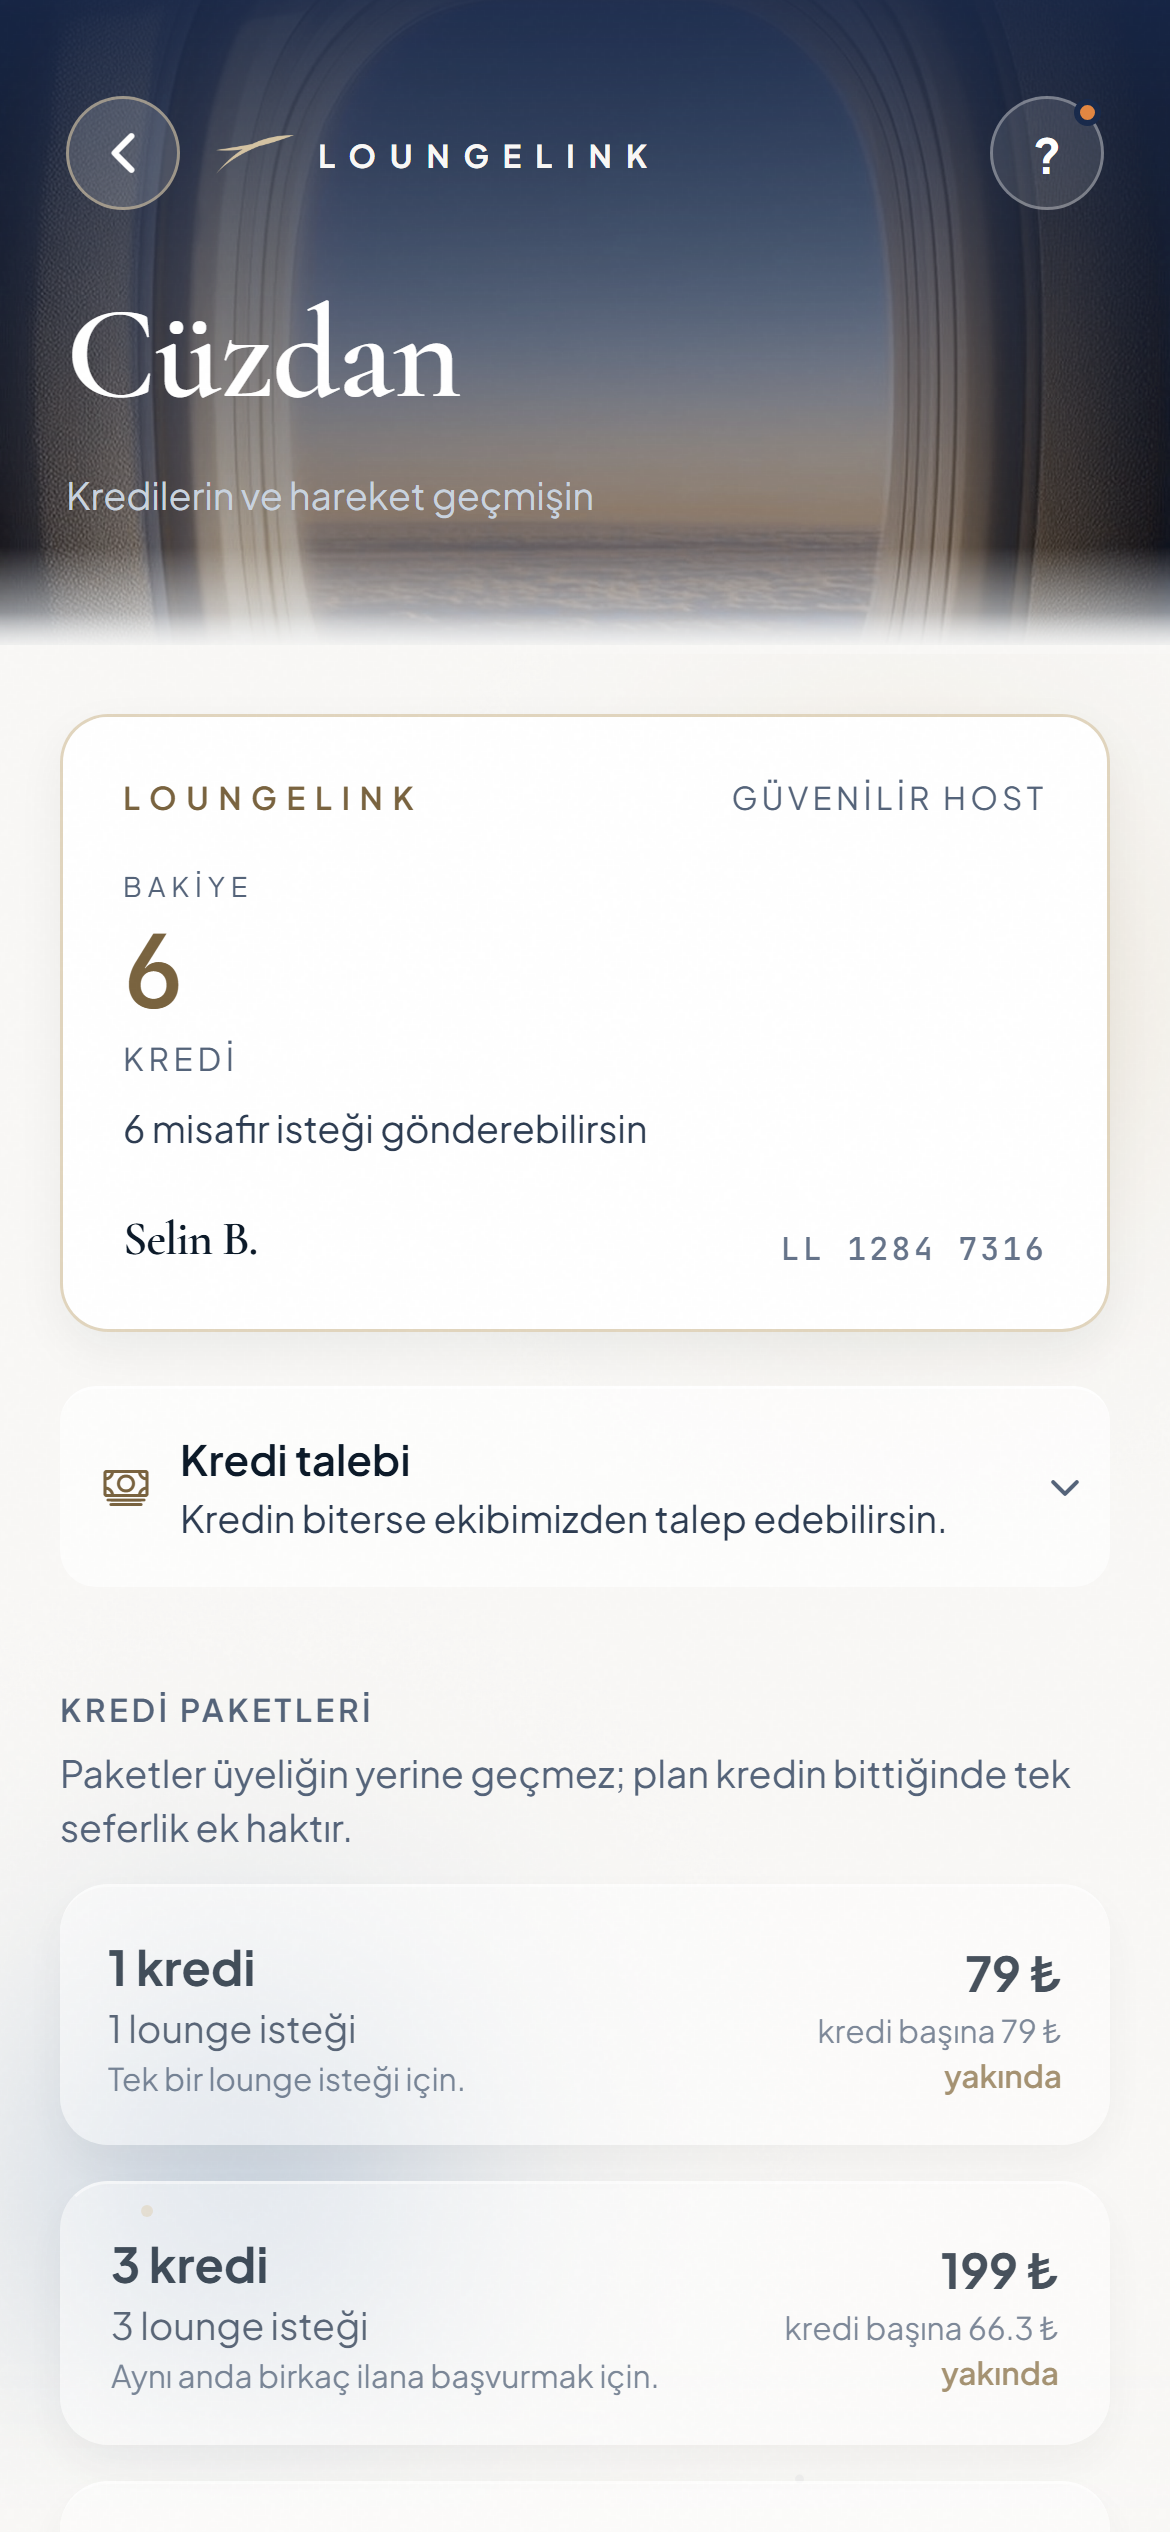
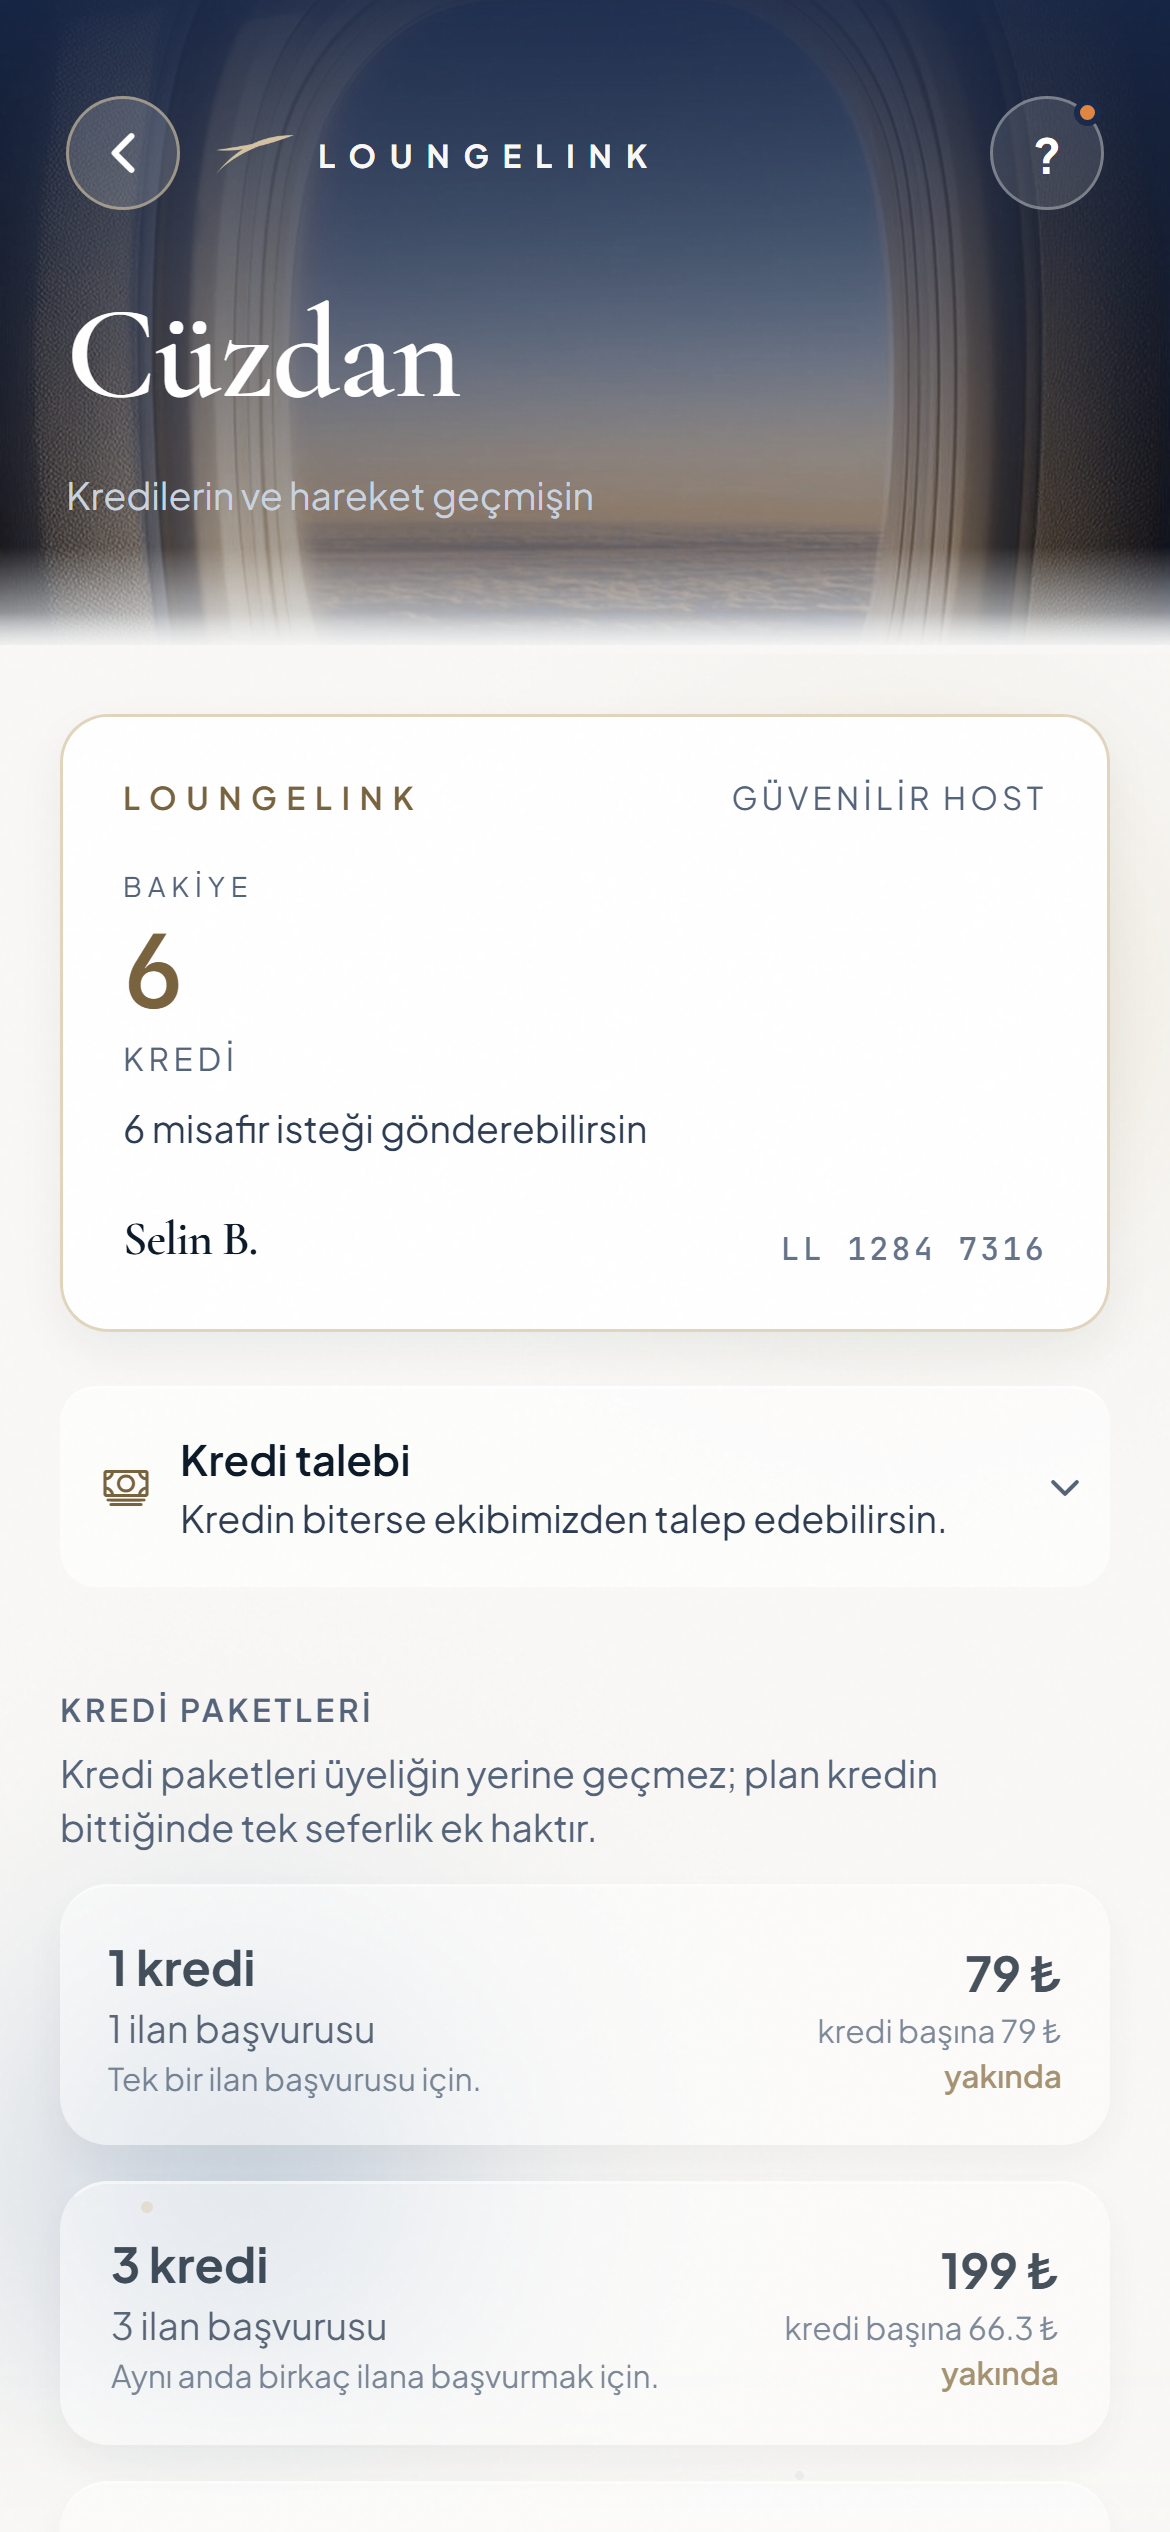
ci: render testleri yesil (mount_test Tanis dongusu, taklit eksikleri) + iOS NSUserTrackingUsageDescription
- mount_test: react-native taklidi her erisimde yeni bilesen donuyordu; her render
  tum agaci bastan kuruyor, BaglantiHakki onDurum ile Meet'te sonsuz dongu (CI asili)
- taklitler: useWindowDimensions, Keyboard.addListener, expo-location, async-storage
  __esModule, onPlanda
- tasma: sohbet paylasim seridi 2 satir, Nasil calisir balonu genisligi
- screens_test: ilan basvurusu metinleri
- app.json: NSUserTrackingUsageDescription (App Store uyarisi 90683, build 295)
render: yoga 9/9, tasma 0, screens 77/0, deeplink 13/0, mount 56/0 (koyu+acik 56/56)

Changed region(s): [[0.0615, 0.6864, 0.8923, 0.7488], [0.1231, 0.78, 0.4, 0.8424], [0.1231, 0.9048, 0.3385, 0.936]]

diff --git a/rnapp/render_check/mount_test.js b/rnapp/render_check/mount_test.js
@@ -151,9 +151,18 @@ const STUBS = {
                                     setUpdateInterval: () => {},
                                     addListener: () => ({ remove: () => {} }),
                                     removeAllListeners: () => {} } },
+  // 30 Ekim — konum.js (Bulunduğum havalimanı) expo-location kullanıyor; gerçeği expo-modules-core (TS) çeker.
+  "expo-location": {
+    Accuracy: { Low: 2 },
+    getForegroundPermissionsAsync: async () => ({ status: "denied", canAskAgain: true }),
+    requestForegroundPermissionsAsync: async () => ({ status: "denied", canAskAgain: false }),
+    hasServicesEnabledAsync: async () => true,
+    getLastKnownPositionAsync: async () => null,
+    getCurrentPositionAsync: async () => ({ coords: { latitude: 41.26, longitude: 28.74 } }),
+  },
   "expo-clipboard": { setStringAsync: async () => {} },
   "expo-status-bar": { StatusBar: () => null },
-  "@react-native-async-storage/async-storage": {
+  "@react-native-async-storage/async-storage": { __esModule: true,
     default: { getItem: async () => null, setItem: async () => {}, removeItem: async () => {} },
   },
   "@react-native-community/datetimepicker": { default: () => null },
@@ -177,8 +186,17 @@ const h = (tag) => {
 };
 // (STUBS yukarıda kuruldu; ikon taklidi `h` tanımlandıktan SONRA
 // eklenmeli — `h` bu satırların altında `const` ile tanımlı.)
+const RN_BILESEN = {};
 STUBS["react-native"] = new Proxy({}, {
   get(_, k) {
+    if (k in RN_BILESEN) return RN_BILESEN[k];
+    const v = rnTaklit(k);
+    if (k !== "Dimensions" && k !== "Platform") RN_BILESEN[k] = v;
+    return v;
+  },
+});
+function rnTaklit(k) {
+  {
     if (k === "StyleSheet") return { create: (o) => o, flatten: (o) => o, hairlineWidth: 1, absoluteFill: {} };
     if (k === "Platform") return { OS: "android", select: (o) => o.android ?? o.default };
     if (k === "Dimensions") return { get: () => ({ width: 390, height: 844 }) };
@@ -230,9 +248,13 @@ STUBS["react-native"] = new Proxy({}, {
     if (k === "Appearance") return { getColorScheme: () => "light", addChangeListener: () => ({ remove() {} }) };
     if (k === "__esModule") return true;
     if (k === "default") return undefined;
+    // 31 Ekim: bilesen taklidi ONBELLEKTEN. Her erisimde yeni `h(k)` donunce
+    // her render'da View/Text/Modal TURU degisiyordu ve React butun alt agaci
+    // bastan kuruyordu (Animated.View de ayni). Tanis'ta BaglantiHakki her kurulusta onDurum ile
+    // ebeveyni guncelleyince bu sonsuz bir donguye dondu (CI asili kaldi).
     return h(String(k));      // View, Text, TouchableOpacity, ScrollView...
-  },
-});
+  }
+}
 
 STUBS["@expo/vector-icons/Ionicons"] = { __esModule: true, default: h("Ionicons") };
 // 🔴 31 AĞUSTOS · 8. TUR — AYNI TAKLİT ÜÇÜNCÜ KEZ, ÜÇÜNCÜ DOSYADA.
@@ -318,7 +340,7 @@ require.cache[require.resolve("../src/supabase.js")] = {
       channel: () => ({ on: () => ({ subscribe: () => ({}) }), subscribe: () => ({}) }),
       removeChannel: () => {},
     },
-    logError: () => {},
+    logError: () => {}, onPlanda: () => false,
     setAppVersion: () => {},
     SUPABASE_URL: "https://test.supabase.co",
   },
@@ -704,7 +726,11 @@ let ok = 0;
 const bad = [];
 
 async function run() {
+// 30 Ekim — tek vaka çalıştırma (teşhis): LL_YALNIZ=Meet node render_check/mount_test.js
+const _YALNIZ = process.env.LL_YALNIZ ? process.env.LL_YALNIZ.split(",") : null;
 for (const [name, Comp, props, bekle] of CASES) {
+  if (_YALNIZ && !_YALNIZ.includes(name)) continue;
+  if (process.env.LL_IZ) console.log("  … " + name);
   if (typeof Comp !== "function") {
     bad.push([name, "bileşen dışa aktarılmamış (export eksik)"]);
     console.log(`  ✗ ${name} — export yok`);

diff --git a/rnapp/render_check/screens_test.js b/rnapp/render_check/screens_test.js
@@ -293,7 +293,7 @@ function data({ sessions = [], messages = [], extra = {} } = {}) {
   // Alan adları SQL 220'nin ETKİN tanımından: aylik_fiyat / yillik_fiyat /
   // aylik_kredi. (Ekran eskiden 210'un fiyat_try adını okuyordu — kusur buydu.)
   globalThis.__DATA.rpc.subscription_plans = [
-    { plan: "explorer", ad: "Yolcu", aylik_fiyat: 0, aylik_kredi: 2, haklar: ["Ayda 2 istek"] },
+    { plan: "explorer", ad: "Yolcu", aylik_fiyat: 0, aylik_kredi: 0, haklar: ["Kayıtta 1 kredi"] },   // SQL 334: Yolcu aylık kredi almaz
     { plan: "steward", ad: "Kâhya", aylik_fiyat: 249, yillik_fiyat: 2490, aylik_kredi: 12,
       yillik_indirim_yuzde: 17, haklar: ["Öncelikli eşleşme"] },
   ];
@@ -302,8 +302,9 @@ function data({ sessions = [], messages = [], extra = {} } = {}) {
     t, lang: "tr", session, onBack: () => {} }));
   check(r.name, r.ok, r.ok ? "çökmeden açılıyor" : "ÇÖKTÜ: " + r.err);
   check(r.name, has(r.texts, "₺249"), "ücretli plan FİYATIYLA görünüyor — 'ücretsiz' değil");
-  check(r.name, has(r.texts, "Ayda 12 kredi"), "aylık kredi hakkı ekranda (madde 8)");
-  check(r.name, has(r.texts, "Ayda 2 kredi"), "ücretsiz planın kredi hakkı da yazıyor");
+  // 30 Ekim — ürün değişti (SQL 334/341): ücretli plan "Ayda N ilan başvurusu", Yolcu "Kayıtta 1 kredi".
+  check(r.name, has(r.texts, "Ayda 12 ilan başvurusu"), "aylık başvuru hakkı ekranda (madde 8)");
+  check(r.name, has(r.texts, "Kayıtta 1 kredi"), "ücretsiz planın kredi hakkı da yazıyor");
 
   // ---------- 18) PLAN: fiyat alanı hiç gelmezse "ücretsiz" DENMEZ ----------
   // Kök neden buydu: okunamayan fiyat `!ucret` ile "Ücretsiz"e dönüşüyordu.

diff --git a/rnapp/render_check/harness.js b/rnapp/render_check/harness.js
@@ -65,6 +65,15 @@ const STUBS = {
   "expo-device": { isDevice: true, brand: "test", modelName: "test" },
   "expo-linking": { createURL: () => "loungelink://", addEventListener: () => ({ remove() {} }), getInitialURL: async () => null },
   "expo-image-picker": { launchImageLibraryAsync: async () => ({ canceled: true }) },
+  // 30 Ekim — konum.js (Bulunduğum havalimanı) expo-location kullanıyor; gerçeği expo-modules-core (TS) çeker.
+  "expo-location": {
+    Accuracy: { Low: 2 },
+    getForegroundPermissionsAsync: async () => ({ status: "denied", canAskAgain: true }),
+    requestForegroundPermissionsAsync: async () => ({ status: "denied", canAskAgain: false }),
+    hasServicesEnabledAsync: async () => true,
+    getLastKnownPositionAsync: async () => null,
+    getCurrentPositionAsync: async () => ({ coords: { latitude: 41.26, longitude: 28.74 } }),
+  },
   "expo-clipboard": { setStringAsync: async () => {} },
   "expo-status-bar": { StatusBar: () => null },
   "expo-web-browser": { openAuthSessionAsync: async () => ({ type: "cancel" }), maybeCompleteAuthSession: () => {} },
@@ -198,6 +207,7 @@ require.cache[require.resolve("../src/supabase.js")] = {
       removeChannel: () => {},
     },
     logError: (...a) => { globalThis.__CALLS.push({ kind: "logError", a }); },
+    onPlanda: () => false,
     setAppVersion: () => {},
     SUPABASE_URL: "https://test.supabase.co",
   },

diff --git a/rnapp/render_check/stub_rn.js b/rnapp/render_check/stub_rn.js
@@ -53,13 +53,15 @@ module.exports = {
   StyleSheet: { create: (o) => o, flatten: (o) => o, hairlineWidth: 1, absoluteFill: {} },
   Platform: { OS: "android", select: (o) => (o.android !== undefined ? o.android : o.default) },
   Dimensions: { get: () => ({ width: 390, height: 844 }) },
+  // 30 Ekim — açılış sahnesi (acilis.js) ve App:Main useWindowDimensions kullanıyor; stub'da yoktu → ErrorBoundary.
+  useWindowDimensions: () => ({ width: 390, height: 844, scale: 3, fontScale: 1 }),
   BackHandler: { addEventListener: () => ({ remove() {} }), removeEventListener: () => {} },
   AppState: { addEventListener: () => ({ remove() {} }), currentState: "active" },
   Linking: { openURL: async () => true, canOpenURL: async () => true },
   Share: { share: async () => ({ action: "sharedAction" }) },
   Alert: { alert: () => {} },
   Clipboard: { setString: () => {} },
-  Keyboard: { dismiss: () => {} },
+  Keyboard: { dismiss: () => {}, addListener: () => ({ remove() {} }), removeAllListeners: () => {} },
   RefreshControl: host("RefreshControl"),
   StatusBar: { currentHeight: 24, setBarStyle: () => {} },
   // 🔴 v3.4 — `NativeModules` STUB'DA YOKTU VE BU BİR ÜRÜN HATASI GİBİ

diff --git a/rnapp/src/tur.js b/rnapp/src/tur.js
@@ -90,7 +90,9 @@ export function TurDugmesi({ t, sayfa, etiketli = false }) {
                                             backgroundColor: C.amberMikro || C.amber, borderWidth: 2, borderColor: TUR.noktaKenar }} />
       )}
       {yeni && etiketli && (
-        <View pointerEvents="none" style={{ position: "absolute", top: 44, right: -6, backgroundColor: C.card, borderRadius: R.sm,
+        /* 30 Ekim — mutlak konumlu balon 38 pt'lik düğmenin genişliğine sıkışıyordu (taşma ölçümü: 61.5 pt gerekiyor, 18 var;
+           CI app-ci 20 Ekim'den beri bu yüzden kırmızı). Genişlik içerikten bağımsız sabitlendi. */
+        <View pointerEvents="none" style={{ position: "absolute", top: 44, right: -6, width: 124, alignItems: "flex-end", backgroundColor: C.card, borderRadius: R.sm,
                                             paddingHorizontal: ARA[10], paddingVertical: ARA[6], shadowColor: "#000", shadowOpacity: 0.22,
                                             shadowRadius: 8, shadowOffset: { width: 0, height: 4 }, elevation: 6 }}>
           <Text numberOfLines={1} style={{ color: C.ink, fontSize: FS.xs, fontWeight: "700" }}>{t.turNasil}</Text>

diff --git a/rnapp/render_check/giris_kapisi_test.js b/rnapp/render_check/giris_kapisi_test.js
@@ -64,6 +64,15 @@ const STUBS = {
   "expo-device": { isDevice: true, brand: "test", modelName: "test" },
   "expo-linking": { createURL: () => "loungelink://", addEventListener: () => ({ remove() {} }), getInitialURL: async () => null },
   "expo-image-picker": { launchImageLibraryAsync: async () => ({ canceled: true }) },
+  // 30 Ekim — konum.js (Bulunduğum havalimanı) expo-location kullanıyor; gerçeği expo-modules-core (TS) çeker.
+  "expo-location": {
+    Accuracy: { Low: 2 },
+    getForegroundPermissionsAsync: async () => ({ status: "denied", canAskAgain: true }),
+    requestForegroundPermissionsAsync: async () => ({ status: "denied", canAskAgain: false }),
+    hasServicesEnabledAsync: async () => true,
+    getLastKnownPositionAsync: async () => null,
+    getCurrentPositionAsync: async () => ({ coords: { latitude: 41.26, longitude: 28.74 } }),
+  },
   "expo-clipboard": { setStringAsync: async () => {} },
   "expo-status-bar": { StatusBar: () => null },
   "expo-web-browser": { openAuthSessionAsync: async () => ({ type: "cancel" }), maybeCompleteAuthSession: () => {} },

diff --git a/rnapp/src/ortak.js b/rnapp/src/ortak.js
@@ -1497,7 +1497,7 @@ export function PaylasimSeridi({ t }) {
         onPress={() => setAcik(a => !a)} activeOpacity={0.75} hitSlop={{ top: 8, bottom: 8, left: 0, right: 0 }}
         style={{ flexDirection: "row", alignItems: "center", paddingVertical: ARA[6], paddingHorizontal: ARA[14] }}>
         <Ikon ad="guvenlik" boy={14} renk={C.goldInk} stil={{ marginRight: ARA[6] }} />
-        <Text numberOfLines={1} style={{ flex: 1, minWidth: 0, color: C.goldInk, fontSize: FS.xs, fontWeight: "600" }}>{t.paylasimKisa}</Text>
+        <Text numberOfLines={2} style={{ flex: 1, minWidth: 0, color: C.goldInk, fontSize: FS.xs, fontWeight: "600" }}>{t.paylasimKisa}</Text>
         <Text style={{ color: C.goldInk, fontSize: FS.xs, marginLeft: ARA[8], textDecorationLine: "underline" }}>{acik ? t.paylasimKapat : t.paylasimDetay}</Text>
       </TouchableOpacity>
       {acik && (

diff --git a/rnapp/render_check/stub_supabase.js b/rnapp/render_check/stub_supabase.js
@@ -62,5 +62,6 @@ module.exports = {
   supabase,
   setAppVersion: () => {},
   logError: () => {},
+  onPlanda: () => false,   // 31 Ekim: periyodik yenileme taklitte kapali
   pickAndUploadPhoto: async () => null,
 };
